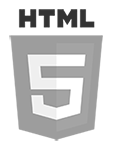
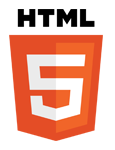
Změna obrázků devstacku a jejich efektu.

diff --git a/css/rychecky.css b/css/rychecky.css
@@ -1,1 +1,1 @@
-nav{padding:0 20px!important;margin:20px 0}nav ul.navbar-nav li{padding:0 0}nav ul.navbar-nav li:hover{background:#3b4756!important}nav ul.navbar-nav li.active{background:#667584}nav ul.navbar-nav li a{display:block;color:#EBEBEB;font-size:12px;padding:11px 15px 10px!important;height:40px}@media (min-width:767px){nav ul.navbar-nav{height:40px}}.navbar-toggler{border:none!important}*{font-family:'Open Sans'}.lead,h1{font-family:Lato}a{color:#578A7B;font-weight:700}a:focus,a:hover{color:#295344;text-decoration:none}.center{text-align:center;margin:auto}.right{text-align:right}.container{width:80%;margin:auto;padding-top:20px}hr.clear{clear:both;visibility:hidden;margin:1px}body{padding-bottom:3em}.lead i{margin-right:10px}.alert{margin:0;padding:10px 15px}#content{width:100%;min-height:100px;background:#EBEBEB;color:#2B3E50;padding:1em 3em 2em;font-size:.9em}#content h2{color:#578A7B;font-weight:500;margin:15px 0 20px}.skill{margin:10px;width:200px;height:100px;float:left}.skill .name{font-weight:700}.skill .progress{margin:3px 0;height:.3em;background:#C1C1C1}.skill .progress .progress-bar{background:#578A7B}.skill .detail{font-size:.8em}.list-group{background:#4E5D6C}.list-group a{color:#EBEBEB}.list-group a:hover{background:#2B3E50!important}.list-group a.active{background:#657483;border:none}.portfolio{width:200px;height:155px;border:1px solid #578A7B;margin:2px;background:#FFF}.portfolio:hover{cursor:pointer;border-color:#295344;background:#4E5D6C;color:#FFF!important;opacity:1}.portfolio:hover .imgage{opacity:1}.portfolio:hover .name{color:#EBEBEB}.portfolio:hover .name .fa{color:#EBEBEB}.portfolio:hover .detail{color:#FFF}.portfolio .image{width:198px;height:80px;opacity:.7}.portfolio .image img{border-bottom:1px solid #CCC}.portfolio .info{float:left;margin:5px}.portfolio .name{color:#578A7B;font-weight:700}.portfolio .name .fa{color:#6B6990}.portfolio .name .fa:first-child{margin-left:5px}.portfolio .detail{color:#0C1F32;font-size:.7em}.portfolio-menu .col-md-6{padding:10px 25px}.isotope{margin-top:10px}.btn-label{font-size:.8em;font-weight:700;margin-bottom:3px}.modal-lg{max-width:100%!important}.modal-lg .modal-dialog{max-width:768px!important}.portfolio-modal .detail{padding-left:20px;font-size:.9em}.portfolio-modal .detail .text{margin-top:15px}.portfolio-modal .detail .url{margin:10px}.portfolio-modal .image img{border:1px solid #2B3E50}.portfolio-modal .gallery{width:100%;text-align:center;margin-top:15px}.portfolio-modal .gallery img{height:40px;display:inline-block;border:2px solid #2B3E50;opacity:.8;margin:3px}.portfolio-modal .gallery img:hover{opacity:1}.fancybox-overlay .fancybox-skin{background:#2B3E50}.fancybox-overlay .fancybox-skin .fancybox-title{color:#FFF;width:100%;background:#2B3E50;font-weight:700;opacity:.8}.social-bar{width:100%;text-align:center}.social-bar .btn-social{height:36px;width:36px;border-radius:50%;border:1px solid #70808f;display:inline-block;color:#fff;padding-top:6px;opacity:.6;margin-top:5px}.social-bar .btn-social:hover{cursor:pointer;opacity:1}.btn-sm{font-size:12px}.timeline{max-width:900px}.timeline .event{text-align:left;border-color:#888;transition:opacity .5s ease}.timeline .event:hover{background:#FFF;border-color:#2B3E50}.timeline .event.odd{margin-top:35px}.timeline .event .title{color:#2B3E50;font-weight:700;font-size:17px}.timeline .event .detail{font-size:12px;margin:5px 0}.timeline .event .date{text-align:right;font-size:11px;font-weight:700;color:#4E5D6C}.timeline .event .company{color:#578A7B;font-weight:700;font-size:11px}.timeline .event .note{font-size:10px;font-style:italic}#contact #contact-table{margin-top:50px}#contact #contact-table #channels{text-align:center}#contact #contact-table #channels .email a{color:#578A7B;font-size:25px;text-decoration:none}#contact #contact-table #channels .email a:hover{color:#4E5D6C}#contact #contact-table #channels .tel a{color:#578A7B;text-decoration:none}#contact #contact-table #channels .tel a:hover{color:#4E5D6C}#contact #contact-table #channels .bank{text-align:left;font-size:12px}#contact #contact-table #address{font-size:18px}#contact #gmap-iframe{width:100%;border-top:1px solid #2B3E50}.photo{float:left;max-width:200px;min-width:100px;width:25%;margin-right:10px}.photo img{opacity:.6;border-radius:50%;width:100%}.photo img:hover{opacity:.8}.stack{width:100%;text-align:center;margin-top:40px}.stack img{opacity:.2;margin:15px 0 0 15px}.stack img:hover{opacity:.8}.tooltipster-base{font-family:'Open Sans';background:#4E5D6C;border-left:1px solid #0C1F32;border-right:1px solid #0C1F32;border-top:1px solid #0C1F32;border-bottom:3px solid #0C1F32}.tooltipster-base .tooltipster-content{font-size:12px}.lastfm{display:none;margin-top:20px;background:#c6c6c6;color:#4E5D6C;border:1px solid #7a7a7a;border-radius:3px;padding:4px;font-size:11px;opacity:.8}.lastfm:hover{cursor:pointer;opacity:1}.lastfm .artist,.lastfm .track{font-weight:700}.lastfm .image{margin-right:5px}.lastfm .image img{width:38px}.lastfm .time{font-size:9px}footer{text-align:right;font-size:11px;padding-right:5px}footer a{color:#EEE}footer a:hover{color:#578A7B}@media (max-width:800px){.skill{height:auto;width:100%}.container{width:96%}.container #content{padding:1em 2em 2em}.btn-social{width:50px!important;height:50px!important;font-size:20px;padding-top:9px!important}}@media (max-width:1080px){.collapsing{overflow:hidden!important}#address,#contact-table{margin:20px!important;font-size:16px!important}}
+nav{padding:0 20px!important;margin:20px 0}nav ul.navbar-nav li{padding:0 0}nav ul.navbar-nav li:hover{background:#3b4756!important}nav ul.navbar-nav li.active{background:#667584}nav ul.navbar-nav li a{display:block;color:#EBEBEB;font-size:12px;padding:11px 15px 10px!important;height:40px}@media (min-width:767px){nav ul.navbar-nav{height:40px}}.navbar-toggler{border:none!important}*{font-family:'Open Sans'}.lead,h1{font-family:Lato}a{color:#578A7B;font-weight:700}a:focus,a:hover{color:#295344;text-decoration:none}.center{text-align:center;margin:auto}.right{text-align:right}.container{width:80%;margin:auto;padding-top:20px}hr.clear{clear:both;visibility:hidden;margin:1px}body{padding-bottom:3em}.lead i{margin-right:10px}.alert{margin:0;padding:10px 15px}#content{width:100%;min-height:100px;background:#EBEBEB;color:#2B3E50;padding:1em 3em 2em;font-size:.9em}#content h2{color:#578A7B;font-weight:500;margin:15px 0 20px}.skill{margin:10px;width:200px;height:100px;float:left}.skill .name{font-weight:700}.skill .progress{margin:3px 0;height:.3em;background:#C1C1C1}.skill .progress .progress-bar{background:#578A7B}.skill .detail{font-size:.8em}.list-group{background:#4E5D6C}.list-group a{color:#EBEBEB}.list-group a:hover{background:#2B3E50!important}.list-group a.active{background:#657483;border:none}.portfolio{width:200px;height:155px;border:1px solid #578A7B;margin:2px;background:#FFF}.portfolio:hover{cursor:pointer;border-color:#295344;background:#4E5D6C;color:#FFF!important;opacity:1}.portfolio:hover .imgage{opacity:1}.portfolio:hover .name{color:#EBEBEB}.portfolio:hover .name .fa{color:#EBEBEB}.portfolio:hover .detail{color:#FFF}.portfolio .image{width:198px;height:80px;opacity:.7}.portfolio .image img{border-bottom:1px solid #CCC}.portfolio .info{float:left;margin:5px}.portfolio .name{color:#578A7B;font-weight:700}.portfolio .name .fa{color:#6B6990}.portfolio .name .fa:first-child{margin-left:5px}.portfolio .detail{color:#0C1F32;font-size:.7em}.portfolio-menu .col-md-6{padding:10px 25px}.isotope{margin-top:10px}.btn-label{font-size:.8em;font-weight:700;margin-bottom:3px}.modal-lg{max-width:100%!important}.modal-lg .modal-dialog{max-width:768px!important}.portfolio-modal .detail{padding-left:20px;font-size:.9em}.portfolio-modal .detail .text{margin-top:15px}.portfolio-modal .detail .url{margin:10px}.portfolio-modal .image img{border:1px solid #2B3E50}.portfolio-modal .gallery{width:100%;text-align:center;margin-top:15px}.portfolio-modal .gallery img{height:40px;display:inline-block;border:2px solid #2B3E50;opacity:.8;margin:3px}.portfolio-modal .gallery img:hover{opacity:1}.fancybox-overlay .fancybox-skin{background:#2B3E50}.fancybox-overlay .fancybox-skin .fancybox-title{color:#FFF;width:100%;background:#2B3E50;font-weight:700;opacity:.8}.social-bar{width:100%;text-align:center}.social-bar .btn-social{height:36px;width:36px;border-radius:50%;border:1px solid #70808f;display:inline-block;color:#fff;padding-top:6px;opacity:.6;margin-top:5px;transition:all .4s ease-in-out}.social-bar .btn-social:hover{cursor:pointer;opacity:1}.btn-sm{font-size:12px}.timeline{max-width:900px}.timeline .event{text-align:left;border-color:#888;transition:opacity .5s ease}.timeline .event:hover{background:#FFF;border-color:#2B3E50}.timeline .event.odd{margin-top:35px}.timeline .event .title{color:#2B3E50;font-weight:700;font-size:17px}.timeline .event .detail{font-size:12px;margin:5px 0}.timeline .event .date{text-align:right;font-size:11px;font-weight:700;color:#4E5D6C}.timeline .event .company{color:#578A7B;font-weight:700;font-size:11px}.timeline .event .note{font-size:10px;font-style:italic}#contact #contact-table{margin-top:50px}#contact #contact-table #channels{text-align:center}#contact #contact-table #channels .email a{color:#578A7B;font-size:25px;text-decoration:none}#contact #contact-table #channels .email a:hover{color:#4E5D6C}#contact #contact-table #channels .tel a{color:#578A7B;text-decoration:none}#contact #contact-table #channels .tel a:hover{color:#4E5D6C}#contact #contact-table #channels .bank{text-align:left;font-size:12px}#contact #contact-table #address{font-size:18px}#contact #gmap-iframe{width:100%;border-top:1px solid #2B3E50}.photo{float:left;max-width:200px;min-width:100px;width:25%;margin-right:10px}.photo img{opacity:.6;border-radius:50%;width:100%}.photo img:hover{opacity:.8}.stack{width:100%;text-align:center;margin-top:40px}.stack img{opacity:.3;margin:15px 0 0 15px;filter:saturate(0);transition:all .7s ease-in-out}.stack img:hover{opacity:.8;filter:saturate(1);cursor:help}.tooltipster-base{font-family:'Open Sans';background:#4E5D6C;border-left:1px solid #0C1F32;border-right:1px solid #0C1F32;border-top:1px solid #0C1F32;border-bottom:3px solid #0C1F32}.tooltipster-base .tooltipster-content{font-size:12px}.lastfm{display:none;margin-top:20px;background:#c6c6c6;color:#4E5D6C;border:1px solid #7a7a7a;border-radius:3px;padding:4px;font-size:11px;opacity:.8}.lastfm:hover{cursor:pointer;opacity:1}.lastfm .artist,.lastfm .track{font-weight:700}.lastfm .image{margin-right:5px}.lastfm .image img{width:38px}.lastfm .time{font-size:9px}footer{text-align:right;font-size:11px;padding-right:5px}footer a{color:#EEE}footer a:hover{color:#578A7B}@media (max-width:800px){.skill{height:auto;width:100%}.container{width:96%}.container #content{padding:1em 2em 2em}.btn-social{width:50px!important;height:50px!important;font-size:20px;padding-top:9px!important}}@media (max-width:1080px){.collapsing{overflow:hidden!important}#address,#contact-table{margin:20px!important;font-size:16px!important}}

diff --git a/css/rychecky.less b/css/rychecky.less
@@ -268,6 +268,7 @@ body {
         padding-top: 6px;
         opacity: 0.6;
         margin-top: 5px;
+        transition: all 0.4s ease-in-out;
 
         &:hover { // Tlačítko sítě při najetí
             cursor: pointer;
@@ -395,11 +396,15 @@ body {
     margin-top: 40px;
 
     img {
-        opacity: 0.2;
+        opacity: 0.3;
         margin: 15px 0px 0px 15px;
+        filter: saturate(0);
+        transition: all 0.7s ease-in-out;
 
         &:hover {
             opacity: 0.8;
+            filter: saturate(1);
+            cursor: help;
         }
     }
 }
